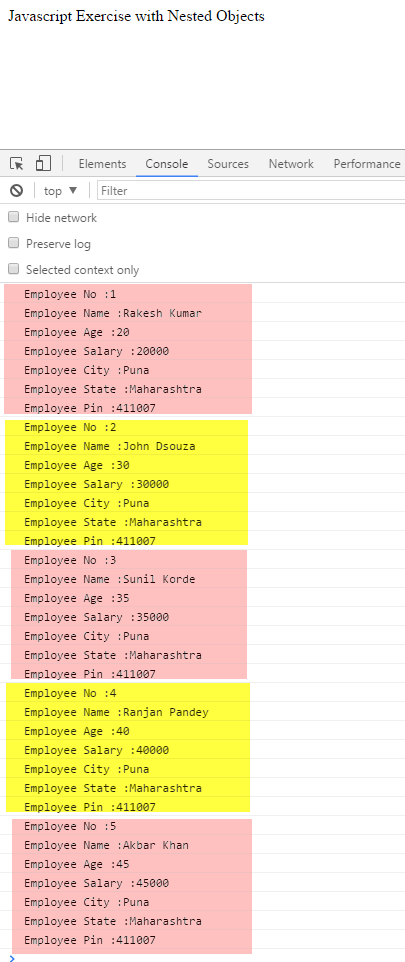
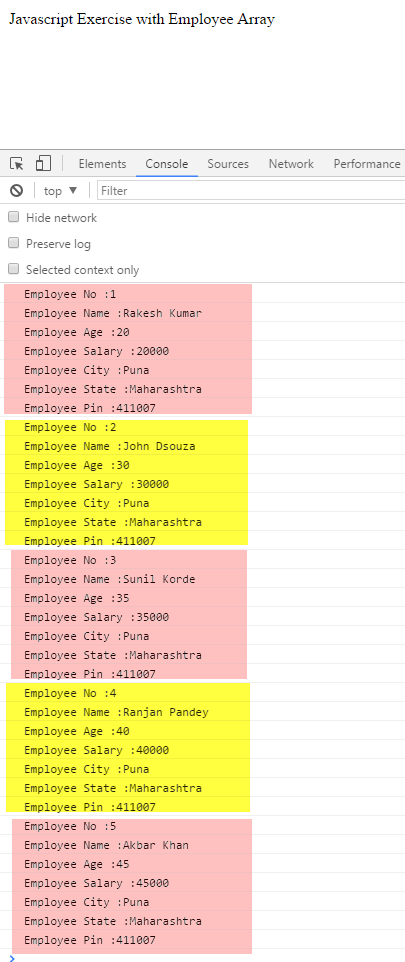
proper comments

Changed region(s): [[0.0296, 0.0, 0.6815, 0.0312]]

diff --git a/ACD_FEB2.1_Session_5_Assignment_4_Main.html b/ACD_FEB2.1_Session_5_Assignment_4_Main.html
@@ -8,7 +8,7 @@
    </head>
    <!-- onload event prints nested object output in the console -->
     <body onload="firstFunction()">
-        <div>Javascript Exercise with Nested Objects</div>
+        <div>Javascript Exercise with Employee Array</div>
     </body>
 </html>
 
